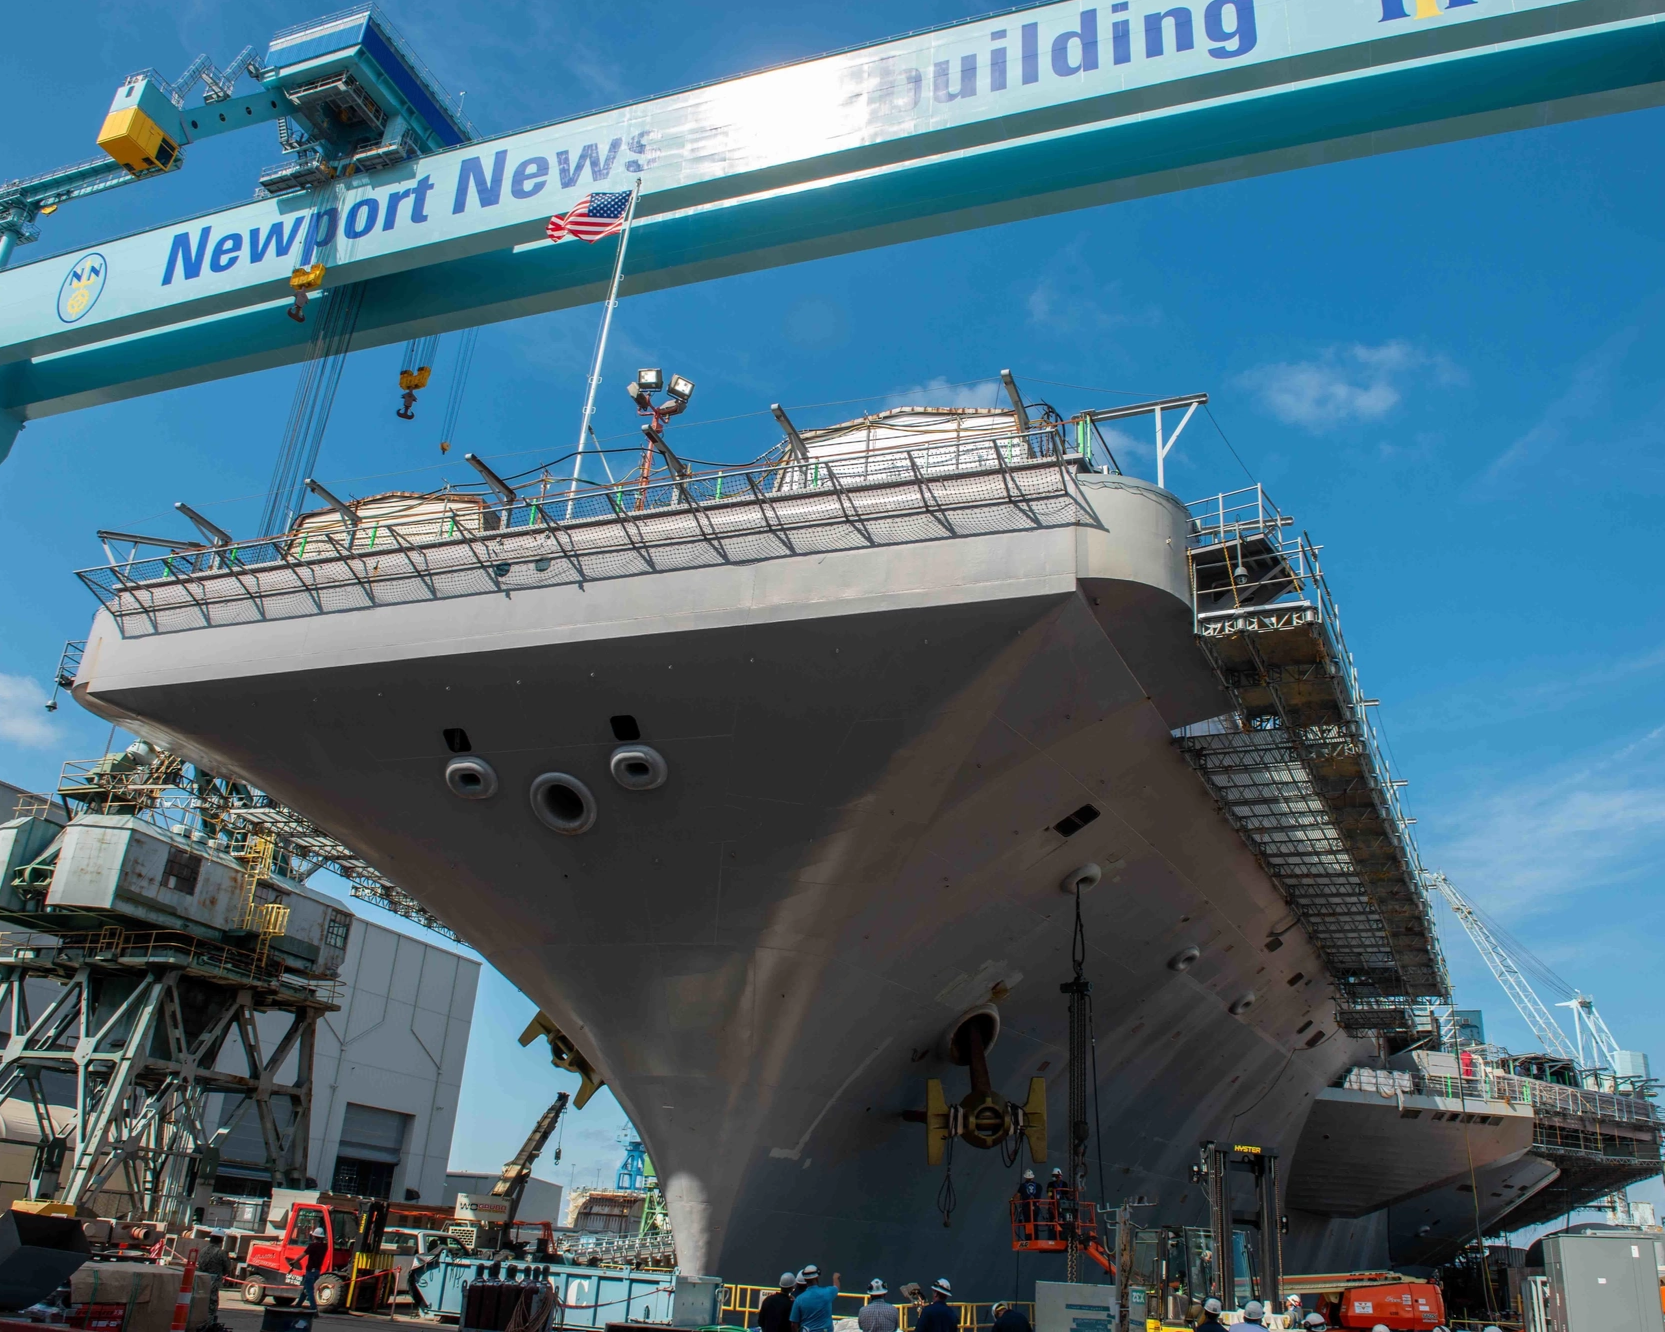
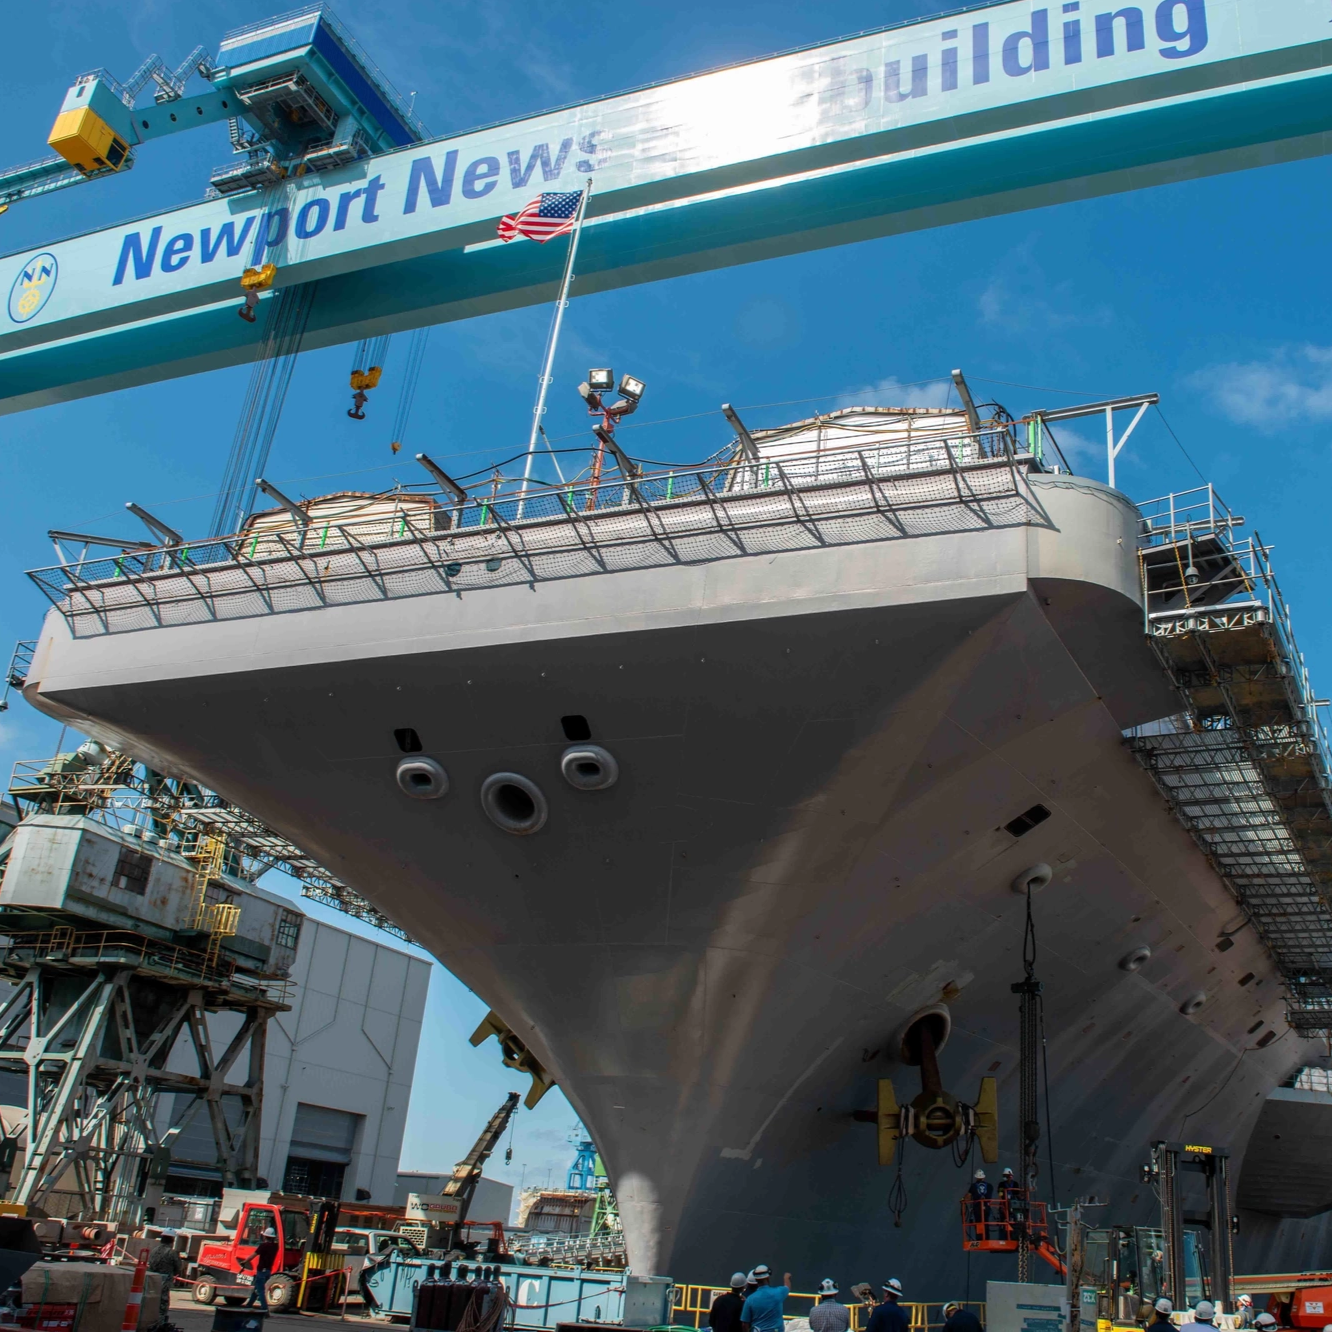
Update portfolio site with new content and styling
- Updated favicon and logo assets
- Added content to posts
- Configured all posts to hide dates, tags, license, and subscribe button
- Added new project images and organized assets by project
- Updated custom styles for article layout and headshots
- Centered article pages by setting aside: false
- Configured grid layouts for post images with height alignment

diff --git a/_includes/head/favicon.html b/_includes/head/favicon.html
@@ -2,25 +2,17 @@
 {%- include snippets/prepend-baseurl.html path='/assets/apple-touch-icon.png' -%}
 <link rel="apple-touch-icon" sizes="180x180" href="{{ __return }}">
 
-{%- include snippets/prepend-baseurl.html path='/assets/favicon-32x32.png' -%}
-<link rel="icon" type="image/png" sizes="32x32" href="{{ __return }}">
+{%- include snippets/prepend-baseurl.html path='/assets/favicon-96x96.png' -%}
+<link rel="icon" type="image/png" sizes="96x96" href="{{ __return }}">
 
-{%- include snippets/prepend-baseurl.html path='/assets/favicon-16x16.png' -%}
-<link rel="icon" type="image/png" sizes="16x16" href="{{ __return }}">
+{%- include snippets/prepend-baseurl.html path='/assets/favicon.svg' -%}
+<link rel="icon" type="image/svg+xml" href="{{ __return }}">
 
 {%- include snippets/prepend-baseurl.html path='/assets/site.webmanifest' -%}
 <link rel="manifest" href="{{ __return }}">
 
-{%- include snippets/prepend-baseurl.html path='/assets/safari-pinned-tab.svg' -%}
-<link rel="mask-icon" href="{{ __return }}" color="#fc4d50">
-
 {%- include snippets/prepend-baseurl.html path='/assets/favicon.ico' -%}
 <link rel="shortcut icon" href="{{ __return }}">
-
-<meta name="msapplication-TileColor" content="#ffc40d">
-
-{%- include snippets/prepend-baseurl.html path='/assets/browserconfig.xml' -%}
-<meta name="msapplication-config" content="{{ __return }}">
 
 <meta name="theme-color" content="#ffffff">
 <!-- end favicons snippet -->

diff --git a/index.html b/index.html
@@ -51,10 +51,10 @@ show_tags: false
 </div>
       
 <!-- EXPERIENCE SECTION, TMD -->
-<h2 style="text-align:center;">Experience</h2>      
+<h2 style="text-align:center;">Experience</h2>
 <hr>
-      
-<div class="grid grid--p-4" style="align-items:center;">
+
+<div class="grid grid--p-4" style="align-items:center; margin-top:2rem; margin-bottom:1rem">
 
   <div class="cell cell--12 cell--md-7">
     <h3>Nonlinear Mechanics Lab</h3>
@@ -71,7 +71,7 @@ show_tags: false
     <a href="{{ '/projects/tmd/' | relative_url }}">
       <div class="card card--flat experience-card">
         <div class="card__image">
-          <img src="{{ '/assets/website-pics/tmd/tmd-render.png' | relative_url }}" />
+          <img src="{{ '/assets/website-pics/tmd/tmd-icon.png' | relative_url }}" />
           <div class="overlay overlay--center overlay--dark">
             <div>
               <h3 style="margin:0;">Read More</h3>
@@ -137,7 +137,7 @@ show_tags: false
     <a href="{{ '/projects/nns/' | relative_url }}">
       <div class="card card--flat experience-card">
         <div class="card__image">
-          <img src="{{ '/assets/website-pics/nns/aircraft-carrier.png' | relative_url }}" />
+          <img src="{{ '/assets/website-pics/nns/nns-icon.png' | relative_url }}" />
           <div class="overlay overlay--center overlay--dark">
             <div>
               <h3 style="margin:0;">Read More</h3>

diff --git a/_sass/custom.scss b/_sass/custom.scss
@@ -1,5 +1,12 @@
 /* start custom scss snippet */
 
+/* Parallax scrolling effect for front page header */
+.article__header--overlay .hero {
+  background-attachment: fixed !important;
+  background-position: center center !important;
+  background-size: cover !important;
+}
+
 /* Hover-only overlay for Experience card */
 .experience-card .card__image .overlay {
   opacity: 0;
@@ -10,8 +17,6 @@
 .experience-card .card__image:hover .overlay {
   opacity: 1;
 }
-
-/* end custom scss snippet */
 
 /* About page headshot: fixed size + circle crop */
 .about-headshot {
@@ -44,3 +49,5 @@
   object-fit: cover;
   display: block; /* removes baseline gap */
 }
+
+/* end custom scss snippet */

diff --git a/_posts/2025-12-15-tmd.md b/_posts/2025-12-15-tmd.md
@@ -4,4 +4,30 @@ title: "Dynamic Tuned Mass Damper"
 tags: [project]
 categories: [projects]
 cover: /assets/website-pics/tmd/tmd-icon.png
+aside: false
+show_date: false
+show_tags: false
+license: false
+show_subscribe: false
 ---
+
+<div class="grid grid--p-2" style="align-items: start;">
+  <div class="cell cell--6">
+    <img src="/assets/website-pics/tmd/test-setup.JPEG" alt="TMD Test Setup" style="width: 100%; height: 400px; object-fit: cover;" />
+  </div>
+  <div class="cell cell--6">
+    <img src="/assets/website-pics/tmd/remove-background.png" alt="TMD System Detail" style="width: 100%; height: 400px; object-fit: cover;" />
+  </div>
+</div>
+
+This project involved the design, construction, and testing of a tunable mass damper to reduce vibration in a mechanical system. I developed the mechanical layout, selected components, and built a physical assembly that allowed system stiffness to be adjusted during operation. Analytical models were used to guide design decisions, and system performance was evaluated through controlled vibration testing. The project required close integration of modeling, hardware design, and experimental validation.
+
+<div class="grid grid--p-2" style="align-items: start;">
+  <div class="cell cell--12 cell--md-5">
+    <p>A key challenge was managing non-ideal behavior in the physical system. Friction, assembly tolerances, and sensor noise caused deviations from predicted response. I addressed these issues by iterating on the mechanical design, revising modeling assumptions, and refining data analysis rather than forcing agreement with ideal results. This work strengthened my ability to evaluate dynamic systems using experimental data and reinforced the importance of designing for adjustability and validation in real engineering applications.
+ </p>
+  </div>
+  <div class="cell cell--12 cell--md-7" style="text-align: center;">
+    <img src="/assets/website-pics/tmd/tmd-icon.png" alt="TMD CAD Render" style="width: 100%;" />
+  </div>
+</div>

diff --git a/_posts/2025-01-01-bike-model.md b/_posts/2025-01-01-bike-model.md
@@ -3,7 +3,13 @@ layout: article
 title: "Bike System Model"
 tags: [project]
 categories: [projects]
-cover: /assets/website-pics/bike/bike-icon.png
+cover: /assets/website-pics/bike-model/bike-model-icon.png
+show_date: false
+show_tags: false
+license: false
+show_subscribe: false
 ---
 
-##TESTING TESTING
+This project focused on modeling and analyzing the dynamics of a ground vehicle using a nonlinear state-space framework. I developed a kinematic model with steering angle and longitudinal acceleration as control inputs and vehicle position, velocity, and heading as system states. The model captured nonlinear behavior through trigonometric relationships and velocity-dependent terms commonly used in mobile robot and autonomous vehicle modeling. I then derived a linearized version of the system to evaluate local behavior around an operating point and assess suitability for control design.
+
+A key challenge was understanding the limits of linearization for control applications. The linear model provided accurate predictions near equilibrium but diverged as inputs increased or operating conditions changed. I compared nonlinear and linear responses through time-domain simulation in MATLAB and analyzed how modeling assumptions affected tracking and stability. This project strengthened my understanding of state-space modeling, linearization, and the tradeoffs involved when applying control techniques to nonlinear robotic systems.

diff --git a/_posts/2025-08-01-energy-systems.md b/_posts/2025-08-01-energy-systems.md
@@ -4,4 +4,12 @@ title: "Ice Rink Energy System Modeling"
 tags: [project]
 categories: [projects]
 cover: /assets/website-pics/energy-systems/energy-systems-icon.png
+show_date: false
+show_tags: false
+license: false
+show_subscribe: false
 ---
+
+This project involved modeling the energy use of an indoor ice rink by analyzing dehumidification, ice slab heat transfer, and refrigeration as a coupled system. I developed a steady-state model to estimate cooling loads, power consumption, and operating cost for a rink operating under typical conditions in Georgia. The model used standard rink geometry, material properties, and operating assumptions to produce realistic estimates relevant to commercial facilities.
+
+A key challenge was balancing model simplicity with physical accuracy. I made simplifying assumptions to keep the system tractable, then tested sensitivity to parameters such as pipe spacing, ambient conditions, and rink size. In several cases, the model produced non-physical trends outside normal design ranges, which required careful interpretation rather than direct acceptance. This project strengthened my ability to evaluate energy systems at a system level, understand the limits of analytical models, and use quantitative results to guide practical engineering decisions.

diff --git a/_posts/2024-05-01-nns.md b/_posts/2024-05-01-nns.md
@@ -1,7 +1,23 @@
 ---
 layout: article
-title: "NNS Internship"
+title: "Newport News Shipbuilding Internship"
 tags: [project]
 categories: [projects]
 cover: /assets/website-pics/nns/nns-icon.png
+aside: false
+show_date: false
+show_tags: false
+license: false
+show_subscribe: false
 ---
+
+<div class="grid grid--p-2" style="align-items: start;">
+  <div class="cell cell--6">
+    <img src="/assets/website-pics/nns/ship-front.webp" alt="Ship Front View" style="width: 100%; height: 400px; object-fit: cover;" />
+  </div>
+  <div class="cell cell--6">
+    <img src="/assets/website-pics/nns/self1.JPEG" alt="NNS Internship" style="width: 100%; height: 400px; object-fit: cover;" />
+  </div>
+</div>
+
+During my time at Newport News Shipbuilding, I worked as part of E81 Nuclear Propulsion Overhaul team. My work focussed on the safe collection and transportation of nuclear waste including researching packaging methods and material testing. This experience gave me a better understanding of the importance of safety and effective collaboration on large-scale projects.

diff --git a/_posts/2024-08-01-heat-transfer.md b/_posts/2024-08-01-heat-transfer.md
@@ -4,4 +4,8 @@ title: "MATLAB FEA Project"
 tags: [project]
 categories: [projects]
 cover: /assets/website-pics/heat-transfer/heat-transfer-icon.png
+show_date: false
+show_tags: false
+license: false
+show_subscribe: false
 ---

diff --git a/_posts/2024-08-01-me2110.md b/_posts/2024-08-01-me2110.md
@@ -4,4 +4,8 @@ title: "Class Robot Competition"
 tags: [project]
 categories: [projects]
 cover: /assets/website-pics/me2110/me2110-icon.png
+show_date: false
+show_tags: false
+license: false
+show_subscribe: false
 ---

diff --git a/_posts/2025-05-01-infravis.md b/_posts/2025-05-01-infravis.md
@@ -4,4 +4,8 @@ title: "InfraVis Internship"
 tags: [project]
 categories: [projects]
 cover: /assets/website-pics/infravis/infravis-icon.png
+show_date: false
+show_tags: false
+license: false
+show_subscribe: false
 ---
